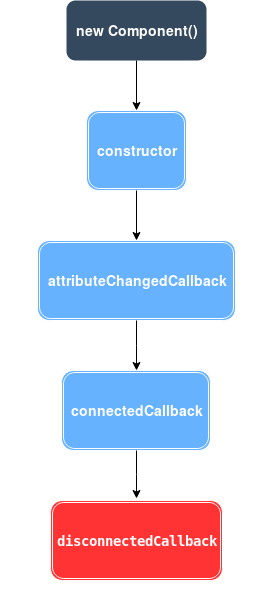
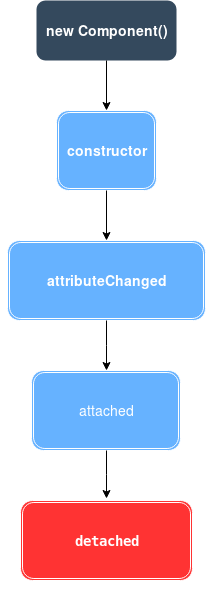
preparing to version 1.0

Changed region(s): [[0.0282, 0.0915, 0.9859, 1.0], [0.169, 0.0, 0.8451, 0.122]]

diff --git a/gen-src/website/pages/en/index.js b/gen-src/website/pages/en/index.js
@@ -78,7 +78,7 @@ class HomeSplash extends React.Component {
     let language = this.props.language || '';
     return (
       <SplashContainer>
-        <Logo img_src={imgUrl('ferrugemjs.png')} />
+        <Logo img_src={imgUrl('new-logo-home.png')} />
         <div className="inner">
           <ProjectTitle />
           <PromoSection>
@@ -112,7 +112,7 @@ const Features = props => (
       },
       {
         content: 'Inspired from <a target="_blank" href="https://reactjs.org/">React</a>.',
-        image: imgUrl('new-logo-home.png'),
+        image: imgUrl('reactivity.png'),
         imageAlign: 'top',
         title: 'Reactive',
       },

diff --git a/gen-src/website/siteConfig.js b/gen-src/website/siteConfig.js
@@ -31,9 +31,9 @@ const siteConfig = {
     //{blog: false, label: 'Blog'},
   ],
   /* path to images for header/footer */
-  headerIcon: 'img/ferrugemjs-logo.png',
-  footerIcon: 'img/ferrugemjs-logo.png',
-  favicon: 'img/ferrugemjs-logo.png',
+  headerIcon: 'img/header-logo.png',
+  footerIcon: 'img/header-logo.png',
+  favicon: 'img/favicon/favicon.png',
   /* colors for website */
   colors: {
     primaryColor: '#157c75',

diff --git a/gen-src/docs/lifecycle.md b/gen-src/docs/lifecycle.md
@@ -8,29 +8,29 @@ sidebar_label: Lifecycle
 
 ![Lifecycle Diagram](../img/lifecycle.png)
 
-### Event connectedCallback
+### Event attached
 
 By implementing this method your module will be prompted for it once your component is in "DOM".
 
 eg.
 ``` typescript
-connectedCallback():void{
+attached():void{
  console.log('im in DOM');
 }
 ```
 
-### Event disconnectedCallback
+### Event detached
 
-By implementing this method  your module will be prompted for it once your component is detached from "DOM".
+By implementing this method  your module will be prompted for it once your component is out of "DOM".
 
 eg.
 ``` typescript
-disconnectedCallback():void{
+detached():void{
  console.log('im out');
 }
 ```
 
-### Event shouldUpdateCallback
+### Event shouldRefresh
 
 By implementing  this method you can decide if a component should refresh or not by returning true or false.
 
@@ -38,20 +38,29 @@ By implementing  this method you can decide if a component should refresh or not
 
 eg.
 ``` typescript
-  private shouldUpdateCallback( new_props:ModuleA ):boolean{
-    return this.title !== new_props.title;
-  }
+private shouldRefresh( new_props:ModuleA ):boolean{
+	return this.title !== new_props.title;
+}
 ```
 
-### Event attributeChangedCallback
+### Event attributeChanged
 
 By implementing this method your module will be notified when any attribute is changed.
 
 eg.
 ``` typescript
-attributeChangedCallback( attrName:string, oldVal:any, newVal:any ):void{
- console.log(`attibute ${attrName} has changed!`);
+attributeChanged( attrName:string, oldVal:any, newVal:any ):void{
+	console.log(`attibute ${attrName} has changed!`);
 }
 ```
 
+### Async and await
 
+Events "attached", "detached" and "attributeChanged" can be write with async annotation.
+
+``` typescript
+async attached(){
+	let rs = await fetch('teste.json'); // or other promise
+	console.log(rs.status);
+}
+```

diff --git a/gen-src/docs/update-component.md b/gen-src/docs/update-component.md
@@ -41,7 +41,7 @@ export class ModuleA{
 
 ## Refresh with callback
 
-You can pass props values as function in refresh.
+You can pass a function.
 
 eg.
 ``` typescript
@@ -49,9 +49,28 @@ export class ModuleA{
   private inc:number=0;
   private refresh:Function;//necessary if you want avoid typescript warnings
   private increment(){
-	this.refresh( state => ({
-		inc:state.inc + 2
-	}));
+	 this.refresh( state => ({
+		 inc:state.inc + 2
+	 }));
+  }
+}
+```
+
+## Refresh with promise
+
+You can pass a promise.
+
+eg.
+``` typescript
+export class ModuleA{
+  private inc:number=0;
+  private refresh:Function;//necessary if you want avoid typescript warnings
+  private increment(){
+   this.refresh(
+    new Promise(success => {
+      setTimeout( _ => success({ inc:this.inc+1 }),2000);
+    })
+   );
   }
 }
 ```
